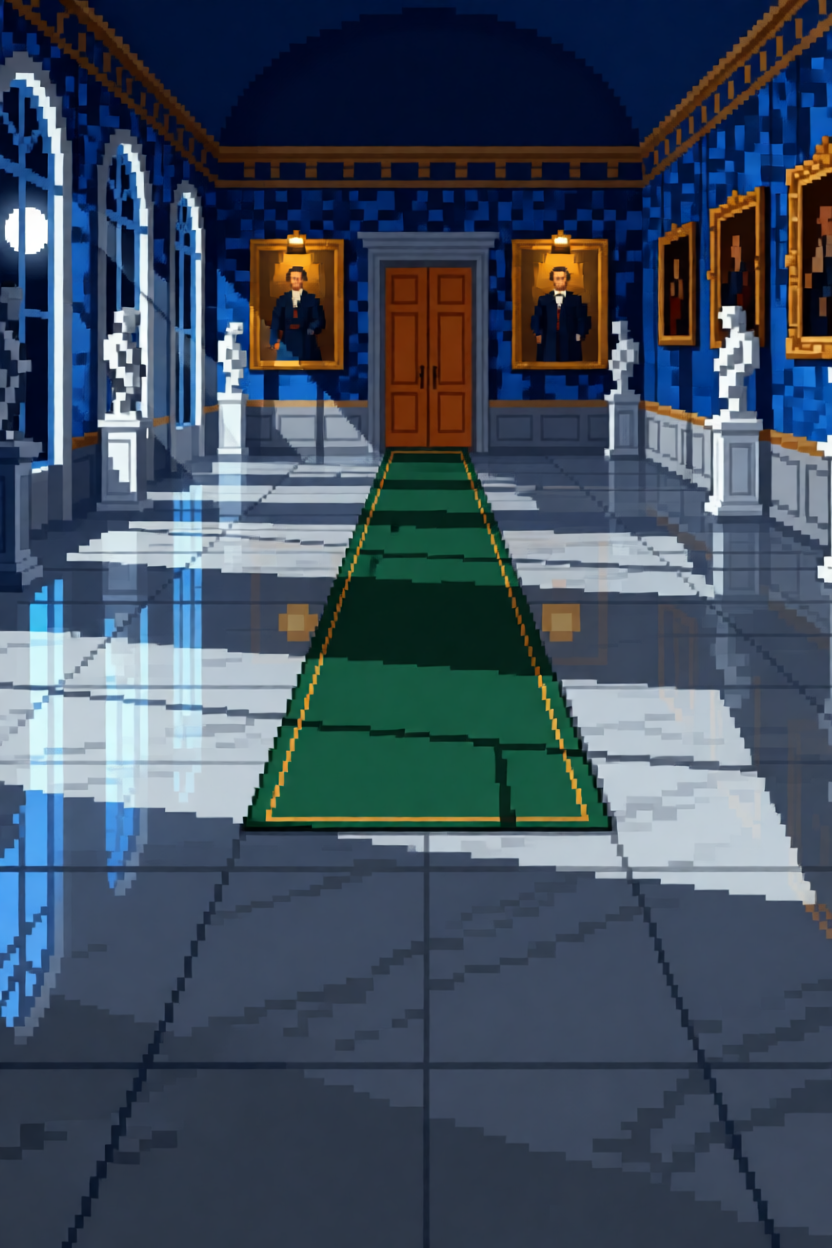
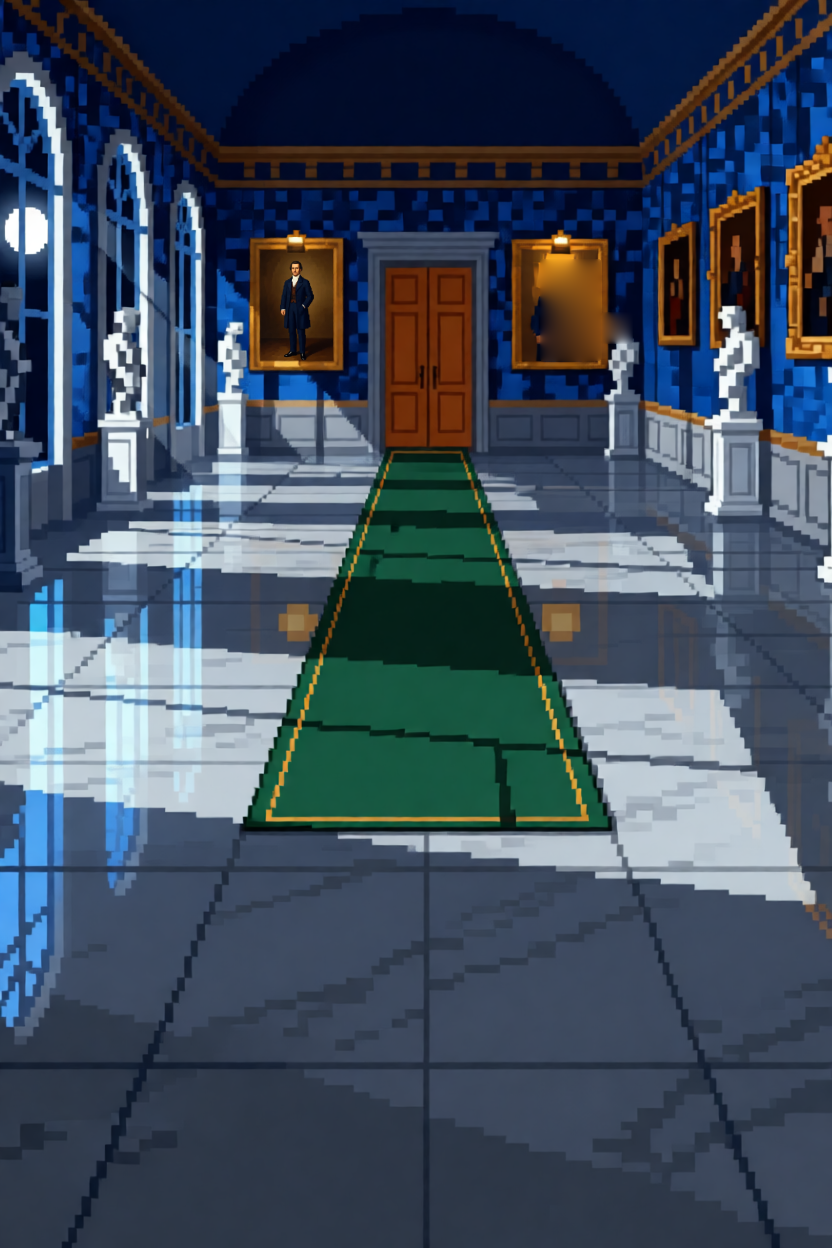
galeria: the gallery's room life swapped in, a painted gentleman's foot tap, a bust's nod and a portrait's sway at full party
Claude-Session: https://claude.ai/code/session_01ALj27RqsABne97dpmb7emV
Tillandsias-Host: macuahuitl
Generated-By: tool=claude-code

Changed region(s): [[0.625, 0.1875, 0.7812, 0.3125], [0.3125, 0.1875, 0.4062, 0.3125]]

diff --git a/plan/levels/act-two-wiring-2026-11-08.md b/plan/levels/act-two-wiring-2026-11-08.md
@@ -115,7 +115,9 @@ All three follow the design note. Galería and terraza each walk Mācron out wit
 - the route up the runner to the far doors, the 12 guests in pairs along both walls, and the two picture lights;
 - the close-up: a floor plate, and Mācron's feet and proud face on full-screen canvases (360x780 at scale .5), so no cut edge shows.
 
-Siobhán herself and the gallery's room-life layers are still to come.
+Siobhán herself is still to come.
+
+**Swapped in, 2026-11-08:** the gallery's room life (`work/1885-galr` 2fd90ac): a repainted plate where the far-left portrait is full length, so its gentleman can tap his foot; plus that foot tap, a bust's nod and a portrait's sway, all artwork at tier 4.
 
 **Swapped in, 2026-11-08:** the banquet close-up (`work/1881-cmdr` 745213a), with the salon's geometry: Don Charolas' four drawings (present, lift, offer, empty), Mācron's four (reach, take, sip, happy) and the plate cut from the room. The rendered page test now expects two `glug`s, not three. [F]
 
